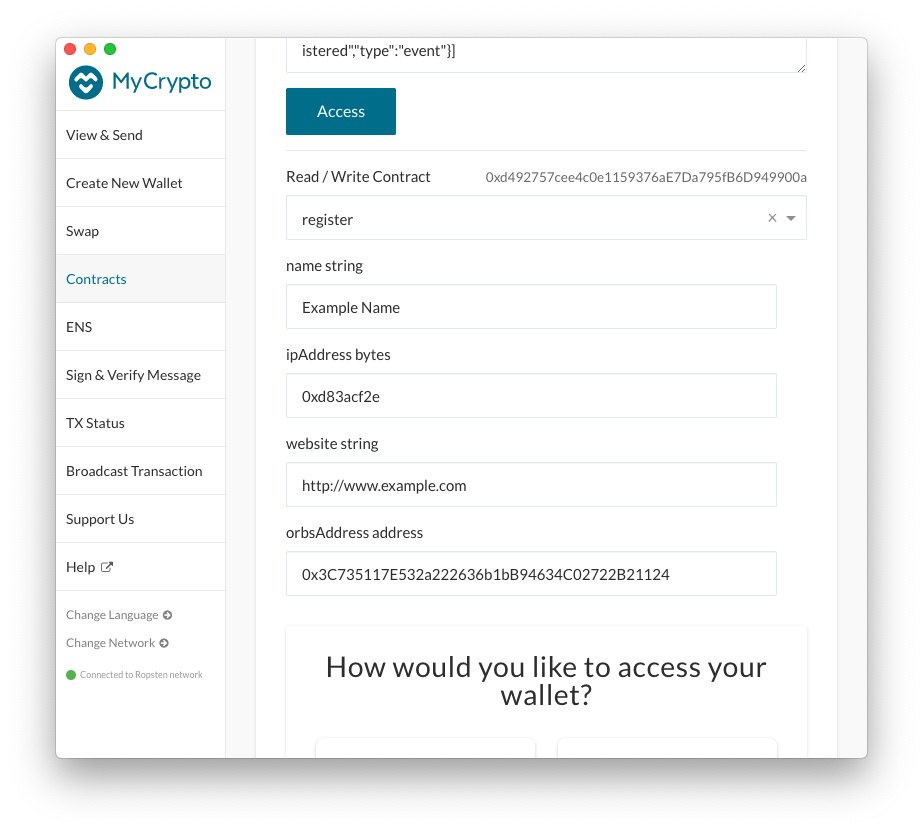
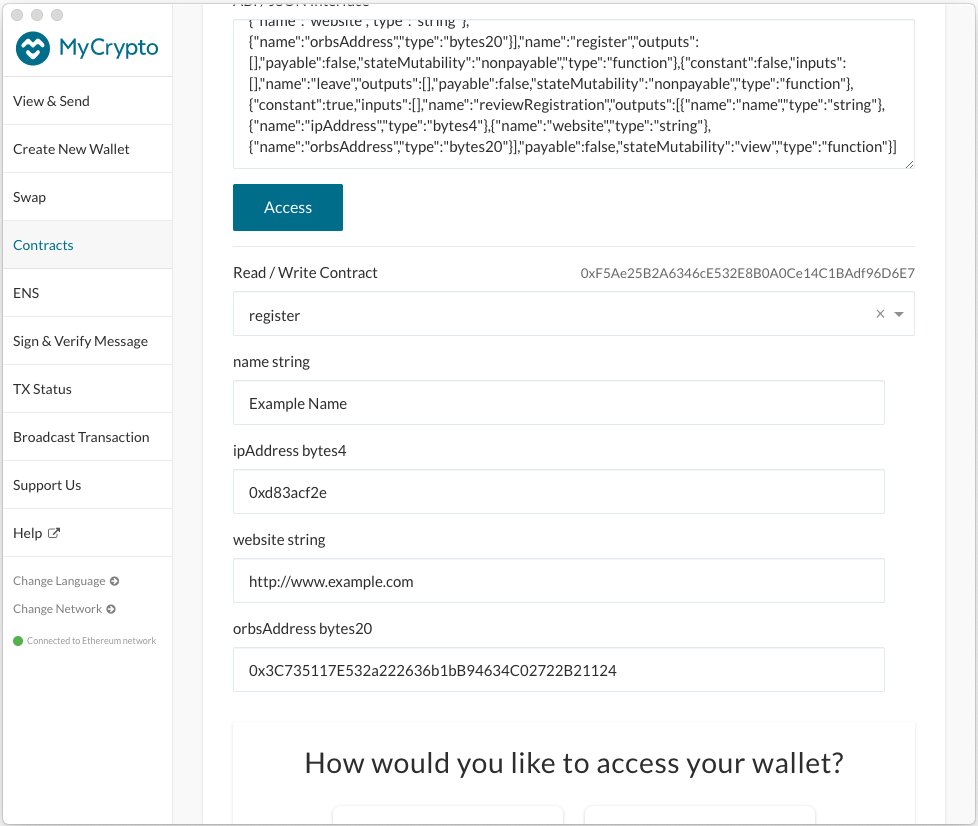
update to Etehreum mainnet

diff --git a/voting/ethereum/instructions/validator_registration.md b/voting/ethereum/instructions/validator_registration.md
@@ -10,31 +10,56 @@ Any wallet software may be used and the choice of MyCrypto here is for illustrat
 - Validator name and website URL
 - IP Address of the Orbs node
 - An Orbs node public address
-  - The Orbs node addressing scheme is equivalent to Ethereum.
+  - The Orbs node addressing scheme is similar to Ethereum.
 
 Note: A Validator may update her registration data at any time or leave the registry.
 
 ### Registration pre-requirements
- - MyCrypto desktop app (or another equivalent wallet software)
+ - MyCrypto desktop app (or another similar wallet software)
  - A wallet configured with your Validator's Ethereum account keys and a positive Ether balance for Ethereum transaction gas payment
- - ABI and contract address available on Etherscan. For example, on Ropsten testnet the contract may be found [here][2] 
  - Registration data (see above)
+ - ABI and contract address, available below in the **Registration** steps or on [Etherscan][2]
 
+&nbsp;
 ### Registration steps
 
 In order to register a Validator with OrbsValidatorsRegistry contract follow these steps:
 
-1. **Verify you are on the correct network** ([Choosing the relevant Ethereum Network](./choosing_the_network.md))
-2. Navigate to *Contracts*, under the *Interact* tab.
+1. **Verify you are on the correct network** (See [Choosing the relevant Ethereum Network])(./choosing_the_network.md))
+   
+1. Navigate to *Contracts*, under the *Interact* tab.
 ![](../instructions/enroll_validator_1.png)
-1. Enter the `OrbsValidatorsRegistry` contract address. For Ropsten testnet the address may be found [here][2]. Paste the address in the text box labeled *Contract Address*.
-1. Extract the Contract ABI from the Etherscan *code* [tab][2] and paste it in the test box labeled *ABI / JSON Interface*. 
-![](../instructions/enroll_validator_2.png)
+
+1. Select an existing custom contact amd enter the `OrbsValidatorsRegistry` contract address. 
+   
+    **OrbsValidatorsRegistry Contract Address**: `0xF5Ae25B2A6346cE532E8B0A0Ce14C1BAdf96D6E7`
+  
+    The contract address and ABI are also available on [Etherscan][2].
+
+    Paste the address in the **Contract Address** box.
+
+    ![](../instructions/enroll_validator_2a.png)
+
+1. Enter the `OrbsValidatorsRegistry` contract ABI.
+   
+   **Registration Interface ABI:**
+
+   [{"constant":false,"inputs":[{"name":"name","type":"string"},{"name":"ipAddress","type":"bytes4"},{"name":"website","type":"string"},{"name":"orbsAddress","type":"bytes20"}],"name":"update","outputs":[],"payable":false,"stateMutability":"nonpayable","type":"function"},{"constant":false,"inputs":[{"name":"name","type":"string"},{"name":"ipAddress","type":"bytes4"},{"name":"website","type":"string"},{"name":"orbsAddress","type":"bytes20"}],"name":"register","outputs":[],"payable":false,"stateMutability":"nonpayable","type":"function"},{"constant":false,"inputs":[],"name":"leave","outputs":[],"payable":false,"stateMutability":"nonpayable","type":"function"},{"constant":true,"inputs":[],"name":"reviewRegistration","outputs":[{"name":"name","type":"string"},{"name":"ipAddress","type":"bytes4"},{"name":"website","type":"string"},{"name":"orbsAddress","type":"bytes20"}],"payable":false,"stateMutability":"view","type":"function"}]
+
+    Alternatively, the ABI may be extracted directly from [Etherscan][2], **Contract ABI
+** window.
+  
+    Paste the ABI in the **ABI / JSON Interface** box.
+
+    ![](../instructions/enroll_validator_2.png)
+
 1. Click *Access*.
 * If the *Access* button appears disabled, make sure there are no trailing line feeds at the bottom of the *ABI / JSON Interface* text box.
+
 1. Select `register` in the drop down list *Read / Write Contract*
 ![](../instructions/enroll_validator_3.png)
 The function parameters for the `register` call will appear in the form.
+
 1. Fill the fields labeled `name`, `ipAddress`, `website`, `OrbsAddress` 
 with your Validator's registration data.
     - OrbsAddress must be formatted as a valid Ethereum address type.
@@ -54,10 +79,12 @@ and provide your wallet information/credentials.
 In this example we choose to provide a mnemonic to open our wallet:
 ![](../instructions/enroll_validator_5.png)
 Proceed to *Choose Address*. 
+
 1. Select your Validator's Ethereum address. 
 The address you choose will be the Validator's identification for voting later on.
 ![](../instructions/enroll_validator_6.png)
 Make sure the account has a positive Ether balance for transaction fees. Then click *Unlock*.
+
 1. Uncheck *Automatically Calculate Gas Limit* and adjust the *Gas Limit* as required. 
 `500,000` should be more than enough (at the time this is being written a successful registration uses 
 ~174000 gas). You will not be charged for unused gas.
@@ -80,9 +107,10 @@ Make sure you see
 
 With sufficient block confirmations.
 
-[2]: https://ropsten.etherscan.io/address/0xd492757cee4c0e1159376aE7Da795fB6D949900a#code
+[2]: https://etherscan.io/address/0xF5Ae25B2A6346cE532E8B0A0Ce14C1BAdf96D6E7#code
+[3]: 0xF5Ae25B2A6346cE532E8B0A0Ce14C1BAdf96D6E7
 
 ##### Notes
-* The registration values must be unique among the different Validators. An attempt to register a Validator with a name, website url, Orbs node public address or Orbs node IP address that matches as existing one will fail the registration.
-* To make changes to your registration repeat the process providing new values.
+* The IP Address and Orbs public address must be unique among the different Validators. An attempt to register a Validator with an IP address or Orbs address identical to another registered Validator, will fail the registration.
+* To make changes to your registration repeat using the update() function instead of register().
 * To to be removed from the Validators Registry, use the leave() function.

diff --git a/voting/ethereum/instructions/choosing_the_network.md b/voting/ethereum/instructions/choosing_the_network.md
@@ -1,11 +1,13 @@
 ## Choosing the Ethereum Network
-In this example we will be enrolling on the Ropsten network. To verify you are on Ropsten follow these steps:
+Verify that the wallet is to the desired network, to verify that the wallet is set to Ethereum Mainnet, follow the following steps:
 
 1. Open MyCrypto and select the desired network.<p> 
-Ropsten in the example below: <p>
 ![](../instructions/change_network_1.png)
-2. Verify the active network is the desired network. If not, click *Change Network*
+
+1. Verify the active network is the desired network (Ethereum). If not, click *Change Network*
 ![](../instructions/change_network_2.png)
-3. Choose your target network. In this example, we will setup a Validator account on Ropsten testnet.
+
+1. Choose Ethereum as the target network.
 ![](../instructions/change_network_3.png)
-4. Verify the selected network is Ropsten.
+
+1. Verify the selected network is Ethereum network.

diff --git a/voting/ethereum/README.md b/voting/ethereum/README.md
@@ -1,14 +1,15 @@
 # Orbs Validator and Guardian Registration
 
-This document walks you through the registration process of Validator and Guardian accounts using the MyCrypto desktop wallet application.
+This document walks you through the registration process of Validator and Guardian accounts using MyCrypto desktop wallet application. 
 Any wallet software may be used, and the choice of MyCrypto here is for illustration only.
-
-### [Choosing the relevant Ethereum Network](./instructions/choosing_the_network.md)
 
 ### [Validator registration](./instructions/validator_registration.md)
 
+<!--
 ### [Guardian registration](./instructions/guardian_registration.md)
 
 ### [Delegation of stake to guardian](./instructions/delegate.md)
 
 ### [Guardian voting](./instructions/vote_out.md)
+
+-->
